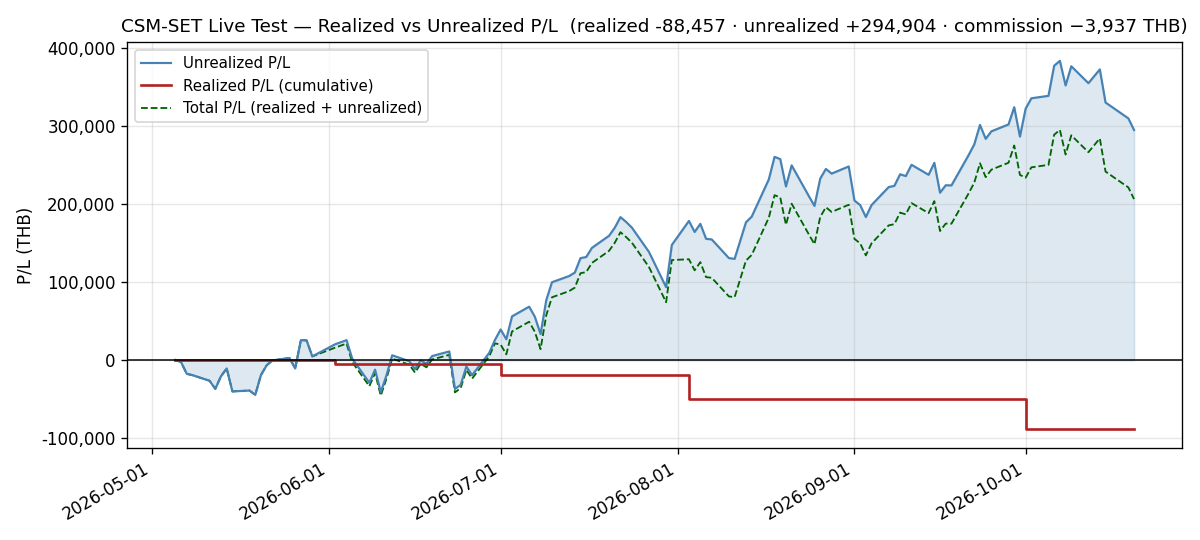
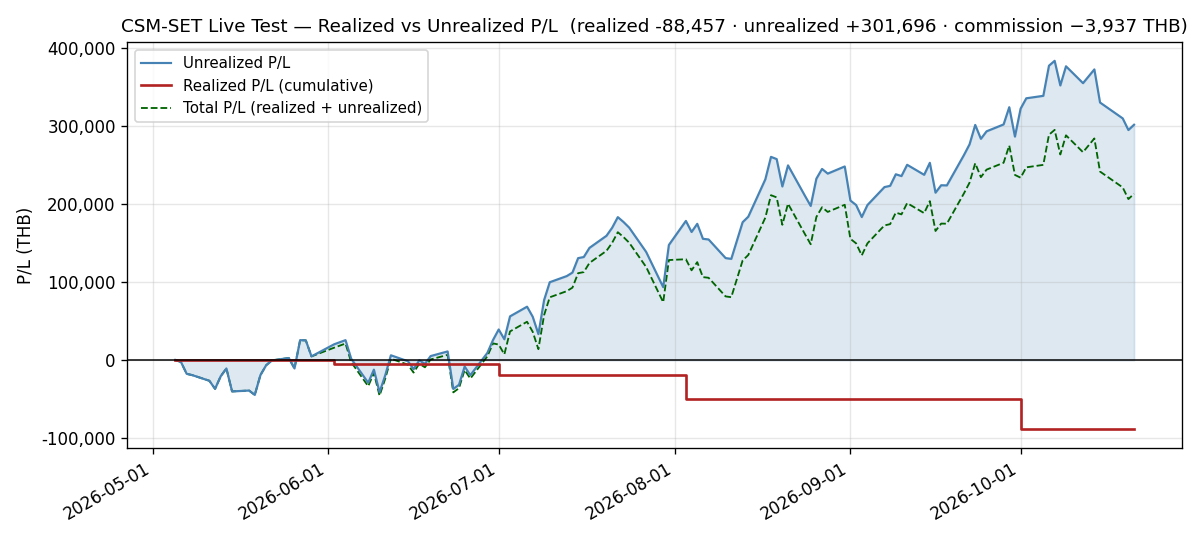
docs(live-test): add daily log for 2026-10-21 — NAV +0.51%, the first gain since 2026-10-14; INSET at its lowest since 2026-07-08
NAV 1,331,628.89 THB (+6,792.00, +0.5127%), Total Return on NAV +18.90%,
breadth 6 up / 3 down / 1 flat, ending a three-session losing run. INSET
−2.31% closed at 4.22, its lowest since 2026-07-08. Both accepted
violations widened (TK-0279): ETRON to 16,229.89 THB over the cap, its
widest since 2026-10-14, and CNT to 11,617.44 THB under the floor. The
SET's cushion over SMA200, 3.4550%, is still the narrowest since
2026-01-15. pnl.csv +1 row (115), the P/L chart regenerated (only its
hash moved), graphs README History, header and check rows updated.

Claude-Session: https://claude.ai/code/session_01VKyqnmKmz6Hh9ErHRFMhFr

diff --git a/docs/live-test/daily/2026-10-21.md b/docs/live-test/daily/2026-10-21.md
@@ -1,0 +1,171 @@
+# Daily Log — 2026-10-21 (Wednesday)
+
+**As of:** 2026-10-21, Asia/Bangkok
+**Phase:** C — Extended Observation
+**Day:** 116 / 47 trading days remaining in 2026
+**Status:** 🔴 **PRE-REGISTRATION HISTORY — SEEN, NOT SCORED.** The operator's 2026-09-11 forward-only decision stands and **no scoring criteria have been pre-registered since**, so every figure below carries that label. 🟢 **NAV closes at 1,331,628.89 THB, up +6,792.00 (+0.5127%)** with no trades — **the first gain since 2026-10-14, ending a three-session losing run** — and stands **81,855.00 (−5.7910%) below the 2026-10-07 high**. Total Return on NAV is **+18.90%**. Breadth is **6 up, 3 down, 1 flat** against a SET that rose **+0.0740%** after trading as low as 1,532.71. 🔴 **INSET fell −2.31% to 4.22, its lowest close since 2026-07-08.** 🔴 **Both accepted violations widened** — ETRON to 16,229.89 THB over the cap, its widest since 2026-10-14, as SMT, HANA and KCE rose, and CNT to 11,617.44 THB under the floor, its widest since 2026-10-19. ⚠ **The index's cushion over SMA200, 3.4550%, is the narrowest since 2026-01-15.**
+
+---
+
+## Execution Summary
+
+**No trades today.** The October rotation was executed at the **2026-10-01 ATO** (SELL MGC, BUY CNT; `configs/live_portfolio.yaml` at `715eeb3`), so the file is unchanged since then and remains valid. Realized P/L for the session is **0.00 THB** and no commission was paid. **Neither end of the band creates a trade, and neither does the sector cap**: both are applied when the book is constructed, and there is no high-water-mark rule. The next rebalance evaluation is **2026-10-30**, six sessions away.
+
+---
+
+## Portfolio Snapshot
+
+> 🔴 **Every figure in this section is PRE-REGISTRATION HISTORY — NOT SCORED.** It is produced from the **reconstructed series** (`csm.adapters.hooks._reconstruct_live_equity`, which reprices `configs/live_portfolio.yaml` against `data/processed/prices_latest.parquet`) and reconciled against **`db_gateway.daily_performance`**. Where a number below is quoted from a stored series, the series is named.
+
+`Avg Cost` is the commission-inclusive per-share basis carried from `configs/live_portfolio.yaml` (4-decimal precision); `Cost Basis = shares × Avg Cost`, and `U.PL % = MV / Cost Basis − 1`. Per-symbol values reproduce the broker statement exactly.
+
+| # | Symbol | Shares | Avg Cost | Last Price | Market Value (THB) | Cost Basis (THB) | U.PL % |
+|---|--------|-------:|---------:|-----------:|--------------------:|-----------------:|-------:|
+| 1 | KCE | 2,600 | 39.0655 | 71.50 | 185,900.00 | 101,570.30 | +83.03% |
+| 2 | GUNKUL | 30,800 | 2.9246 | 4.98 | 153,384.00 | 90,077.68 | +70.28% |
+| 3 | INSET | 42,000 | 3.0848 | 4.22 | 177,240.00 | 129,561.60 | +36.80% |
+| 4 | HANA | 3,000 | 35.8070 | 49.50 | 148,500.00 | 107,421.00 | +38.24% |
+| 5 | IRPC | 56,600 | 2.3037 | 2.78 | 157,348.00 | 130,389.42 | +20.68% |
+| 6 | EASTW | 24,000 | 4.2672 | 4.94 | 118,560.00 | 102,412.80 | +15.77% |
+| 7 | EPG | 17,300 | 5.9099 | 6.55 | 113,315.00 | 102,241.27 | +10.83% |
+| 8 | SMT | 20,400 | 5.8097 | 7.25 | 147,900.00 | 118,517.88 | +24.79% |
+| 9 | FORTH | 5,300 | 16.1270 | 13.80 | 73,140.00 | 85,473.10 | −14.43% |
+| 10 | CNT | 18,200 | 3.3456 | 3.02 | 54,964.00 | 60,889.92 | −9.73% |
+
+### Portfolio summary
+
+| Metric | Value |
+|--------|-------|
+| Total Cost Basis | 1,028,554.97 THB |
+| Total Market Value | 1,330,251.00 THB |
+| Unrealized P/L | +301,696.03 THB (+29.33%) |
+| Realized P/L (today) | **0.00 THB** |
+| Realized P/L (cumulative, since inception) | **−88,456.67 THB** |
+| Commission paid (cumulative) | **−3,936.97 THB** |
+
+### Account summary
+
+| Metric | Value |
+|--------|-------|
+| Remaining Cash | 1,377.89 THB |
+| Total NAV | 1,331,628.89 THB |
+| Total Return on NAV | +18.90% |
+
+> **Cost-basis note:** Total Cost Basis is unchanged at **1,028,554.97 THB** since the 2026-10-01 rotation, and the reconciliation delta against Σ per-symbol (`shares × avg_cost`, 4-dp) is **0.00 THB**.
+>
+> ⚠ **Above/below cost: 8 up / 2 down, unchanged**, with only **FORTH** and **CNT** below. 🔴 **INSET's +36.80%** is its lowest since 2026-08-03.
+>
+> **Dispersion narrowed to 97.46pp** (KCE +83.03% to FORTH −14.43%), from 98.04pp — **the narrowest since the 2026-10-01 rotation again**: the leader KCE gained **1.28pp** of cost and the laggard FORTH gained **1.86pp**.
+>
+> **Total P/L check:** realized + unrealized = −88,456.67 + 301,696.03 = **+213,239.36 THB**, up from +206,447.36 by exactly the +6,792.00 session move.
+
+---
+
+## Day-over-Day Change (vs Tuesday October 20)
+
+| Symbol | Oct 20 Close | Oct 21 Close | Change | Change % | MV Contribution (THB) |
+|--------|-------------:|-------------:|-------:|---------:|----------------------:|
+| SMT | 7.05 | 7.25 | +0.20 | +2.84% | +4,080.00 |
+| HANA | 48.50 | 49.50 | +1.00 | +2.06% | +3,000.00 |
+| EPG | 6.45 | 6.55 | +0.10 | +1.55% | +1,730.00 |
+| FORTH | 13.50 | 13.80 | +0.30 | +2.22% | +1,590.00 |
+| KCE | 71.00 | 71.50 | +0.50 | +0.70% | +1,300.00 |
+| GUNKUL | 4.96 | 4.98 | +0.02 | +0.40% | +616.00 |
+| IRPC | 2.78 | 2.78 | 0.00 | 0.00% | 0.00 |
+| CNT | 3.04 | 3.02 | -0.02 | -0.66% | -364.00 |
+| EASTW | 4.98 | 4.94 | -0.04 | -0.80% | -960.00 |
+| INSET | 4.32 | 4.22 | -0.10 | -2.31% | -4,200.00 |
+| **Total** | | | | **+0.51%** | **+6,792.00** |
+
+**Breadth: 6 up, 3 down, 1 flat.**
+
+> The `Change %` on the Total row is the **market-value** change (+6,792.00 / 1,323,459.00 = +0.5132%), not the NAV change (+6,792.00 / 1,324,836.89 = +0.5127%). The two differ only because cash sits in the NAV denominator and not in the market-value one.
+
+**The risers' 12,316.00 outran the fallers' −5,524.00.** **SMT +2.84% (+4,080.00)**, its best session since 2026-10-14, led, with **HANA +2.06% (+3,000.00)**, **EPG +1.55% (+1,730.00)**, its best since 2026-10-09, and **FORTH +2.22% (+1,590.00)**, its best since 2026-10-07. **KCE +0.70% (+1,300.00)**, its best since 2026-10-14, and **GUNKUL +0.40% (+616.00)** also rose, and **IRPC closed unchanged at 2.78**. Against them, **INSET −2.31% (−4,200.00)** closed at **4.22, its lowest close since 2026-07-08**, and **EASTW −0.80% (−960.00)** and **CNT −0.66% (−364.00)** fell. **The book rose +0.5127% against a SET that rose +0.0740%**, a **+0.4387pp** difference that is a same-session arithmetic result, not a performance comparison (Market Context).
+
+---
+
+## Market Context
+
+| Indicator | Value | Source |
+|-----------|-------|--------|
+| SET Index | 1,556.09 | tvkit (TradingView) |
+| SET Open / High / Low | 1,560.85 / 1,563.04 / 1,532.71 | tvkit |
+| SET 200-day SMA | 1,504.1230 | tvkit (TradingView) |
+| Regime Estimate | BULL | SET +3.46% above SMA200 |
+
+> ⚠ **This is context, NOT a benchmark comparison, and it must not be read as one.** `SET:SET` is a **price index**; the strategy series above is priced on **dividend-adjusted** bars (since `e04a292`, 2026-08-09). The two are not on the same basis, the difference is one-sided in the strategy's favour, and it is not small — measured 2026-09-11 over 2024-03-19 → 2026-09-10, the dividend adjustment is worth **+12.09 percentage points** on this universe, roughly **+4.8%/yr**. The engine's own benchmark loader is also given **no date bounds**, so it compares **600 index points — from 2024-04-30 in today's panel, a start that moves forward one session per session** — against a strategy series that starts at the 2026-10-01 `entry_date`. **No alpha, excess return or outperformance figure is computed anywhere in this log.**
+
+---
+
+## Regime State
+
+- **Detected regime:** BULL — SET (1,556.09) is above SMA200 (1,504.1230) by +3.4550%
+- **SMA200 position:** 1,504.1230 — SET closing at 1,556.09
+- **3-month return:** −4.55% (window-sensitive — see Notes)
+- **No regime-driven action.** The regime filter is evaluated at the month-end rebalance, not intra-month. The next evaluation is **2026-10-30**.
+
+**The SET path from the 2026-09-08 high reads 1,621.89 → 1,617.89 → 1,615.07 → 1,604.52 → 1,591.07 → 1,578.66 → 1,562.73 → 1,583.34 → 1,584.15 → 1,598.03 → 1,604.44 → 1,610.70 → 1,602.58 → 1,607.63 → 1,602.37 → 1,594.30 → 1,559.01 → 1,563.91 → 1,571.62 → 1,576.45 → 1,582.22 → 1,584.63 → 1,570.61 → 1,577.65 → 1,571.74 → 1,575.88 → 1,573.01 → 1,571.72 → 1,554.94 → 1,556.09** — a **+1.15 point, +0.0740%** session, the index's best since 2026-10-14, leaving it **−4.0570%** below the 2026-09-08 high. Today's range was **30.33 points**, against 20.03 the prior session — **the widest since 2026-09-30** — and the index traded as low as **1,532.71**, **28.59 points above today's SMA200**. **Cushion fell 3.4770% → 3.4550%, a −0.0220pp step, the narrowest since 2026-01-15**, as SMA200 rose again to **1,504.1230** (+1.4321). **A BULL→BEAR crossing needs the index 51.97 points lower — a further −3.34% at today's SMA200.**
+
+The 3-month figure fell from −4.37% to −4.55% on a rising session, because its start bar moved from 2026-07-14 (1,626.03) to 2026-07-15 (1,630.21).
+
+---
+
+## Sector Concentration
+
+Groupings are those of the 2026-10-01 rotation (CONS for CNT, SET-official) and are unchanged today; percentages are directly comparable to the prior session for every sleeve.
+
+| Sector | Market Value (THB) | % of NAV | Limit | Status |
+|--------|--------------------:|---------:|-------|--------|
+| Energy & Utilities (ENERG) | 429,292 | 32.2381% | 35% | OK — 36,778.11 THB of headroom |
+| Electronic Components (ETRON) | 482,300 | 36.2188% | 35% | 🔴 **OVER — 16,229.89 THB, accepted known violation** |
+| ICT | 250,380 | 18.8025% | 35% | OK |
+| Construction Materials (CONMAT) | 113,315 | 8.5095% | 35% | OK |
+| Construction Services (CONS) | 54,964 | 4.1276% | 5% floor | 🔴 **UNDER — 11,617.44 THB, accepted known violation** |
+
+🔴 **ETRON's excess widened to its widest since 2026-10-14**, from the 10,227.09 of 2026-10-20. It rose **+0.4468pp to 36.2188%**, its highest weight since 2026-10-14, and the excess grew **10,227.09 → 16,229.89 THB**: the sleeve's market value rose 8,380.00 (SMT +4,080.00, HANA +3,000.00, KCE +1,300.00) while the cap rose 2,377.20 with NAV. [[TK-0279]]
+
+🔴 **CNT's gap widened to 11,617.44 THB, its widest since 2026-10-19**, from 10,913.84, and CONS fell **−0.0486pp to 4.1276%**: CNT's −364.00 plus a floor that rose 339.60 with NAV. **CNT clears at 3.6919, +22.25%.** [[TK-0279]]
+
+**ICT fell −0.2934pp to 18.8025%** on INSET, its lowest since the 2026-10-01 rotation. **ENERG fell −0.1913pp to 32.2381%** on EASTW. **CONMAT rose +0.0870pp to 8.5095%** on EPG, its highest since 2026-08-13. The two large sleeves hold **68.4569% of NAV** together.
+
+**At the ceiling end, KCE remains the largest position** — **13.9603%**, 13,844.33 THB inside the 15% ceiling, over at **77.7644 (+8.76%)** — 8,660.00 THB above INSET, at **13.3100%**, 22,504.33 THB inside, over at **4.8504 (+14.94%)**. 🟢 **At the floor end, FORTH is 5.4925%, 6,558.56 THB above the 5% floor, and goes under at 12.4974 (−9.44%).**
+
+---
+
+## Risk Notes
+
+1. 🔴 **PRE-REGISTRATION HISTORY — SEEN, NOT SCORED (operator decision, 2026-09-11, unchanged).** The track record restarts forward-only, and **scoring criteria are still pending an operator pre-registration**: checked for this log across the strategy repo, the ticket store and the umbrella, and **none has been recorded**. The EMA100 definition remains deferred to that pre-registration (operator decision D1, 2026-09-30), and **the October evaluation it governs is six sessions away**.
+2. 🟢 **NAV rose +6,792.00 (+0.5127%) to 1,331,628.89 — the first gain since 2026-10-14, ending a three-session losing run** (`daily_performance`). It stands **81,855.00 (−5.7910%) below the 2026-10-07 high** and **20,582.00 below the book's 2026-10-01 post-rotation value** (1,352,210.89, `equity_curve`). Total Return on NAV is **+18.90%**.
+3. 🔴 **ACCEPTED KNOWN VIOLATION — ETRON 36.2188%, 16,229.89 THB over the 35% cap** (operator decision D2), **its widest excess since 2026-10-14**. It widened from 10,227.09 without a trade, as all three of its names rose. **No action is recommended and none has been sized.** [[TK-0279]]
+4. 🔴 **ACCEPTED KNOWN VIOLATION — CNT 4.1276%, 11,617.44 THB under the 5% floor and the whole CONS sleeve** (D2), **its widest gap since 2026-10-19**. It widened from 10,913.84 as CNT fell and the floor rose with NAV; CNT clears at **3.6919 (+22.25%)**. [[TK-0279]]
+5. ⚠ **REGIME — the index's cushion over SMA200 is 3.4550%, still the narrowest since 2026-01-15.** The index traded as low as **1,532.71**, 28.59 points above today's SMA200, in its widest range since 2026-09-30, and closed **+0.0740%**. A BULL→BEAR crossing needs **51.97 points (−3.34%)** at today's SMA200. **The regime filter is evaluated only at the month-end rebalance**, so a crossing before 2026-10-30 triggers nothing by itself; what the filter reads that day is what counts. This is context, not a forecast.
+6. 🟢 **`equity_curve` and `daily_performance` agree on the new day**, both **1,331,628.89**. The 2026-10-01 rows still differ by 2,385.81 by design (post-trade against pre-trade).
+7. 🟢 **Today's `daily_return` (+0.5127%) equals this log's headline.** ⚠ `cumulative_return` is anchored to the 2026-10-01 `entry_date` and reads **−1.52%** against a true **+18.90%**, its anchor being the post-rotation value of Risk Note 2. `combined_drawdown` still reads **−6.27%** — the maximum drawdown inside the post-`entry_date` window, set on 2026-10-20, not today's −5.79% distance from the high. Both are the documented truncations, not new defects.
+8. 🟢 **Circuit-breaker buffer 20.10% of NAV.** The 5% breaker trips at **1,064,000 THB**; NAV sits **+267,628.89 above it**. **NAV is 5.79% off peak.** The rolling `circuit_breaker.trigger_threshold` is −10% over 60 days; −5.79% is clear.
+9. 🟢 **The refresh ran clean**: attempt 1 recovered all 201 universe symbols (`requested=201 recovered=201 still_failing=0`) in **131.166s**, and **no symbol failed** (`failures=0`, `held_symbols_failed=0`). The container has not restarted since the 2026-10-14 recreate.
+10. 🟢 **The uncredited dividend total holds at 8,927.00 THB** — KCE 1,560.00, INSET 2,100.00, MGC 2,208.00, FORTH 795.00, IRPC 2,264.00. **0.67% of NAV** and **4.19%** of the +213,239.36 total P/L. There is still no dividend-accrual path anywhere in the book. Carried to the operator's October decision.
+11. **INFRA (carried) — the container publishes `:8100` on all interfaces while private-mode auth is disabled.** `CSM_API_KEY` is absent from the container environment and `CSM_PUBLIC_MODE=false`. **Risk tier: low-moderate and LAN-scoped.** Two low-risk options, operator's call: bind to `127.0.0.1:8100:8000`, or set `CSM_API_KEY`. The 2026-10-14 recreate kept the binding as it was, so the first option still needs its own recreate. **Forty-eighth consecutive log.**
+12. ⚠ **DOC — the `csm-set-daily-log` skill's `daily_return` guidance remains stale.** Its Step 3 still calls the field *"an open defect, not yet fixed in code"*; **it was fixed 2026-09-02**. Today `daily_return` reads **+0.5127%** and agrees with this log's headline exactly. **Thirtieth log to carry this.**
+13. **Open decisions carried to the October evaluation (2026-10-30, six sessions away)**: the EMA100 definition (D1), the drift question at every end of the bands (Risk Notes 3, 4; [[TK-0279]]), fix-notional-not-shares, restate-vs-cutover for price history, and dividend accrual (Risk Note 10).
+
+---
+
+## Notes
+
+- **Scheduled refresh completed via APScheduler with zero failures.** `"Scheduled daily_refresh completed"` at **2026-10-21T11:02:13Z** (18:02 BKK) — the 18:00 cron firing (`cron[... day_of_week='mon-fri', hour='18', minute='0']`, started 11:00:00Z), not a manual `POST /api/v1/scheduler/run/daily_refresh`. Receipt: `symbols_fetched=211, failures=0, duration_seconds=131.166, held_symbols_fetched=10, held_symbols_failed=0, retry_attempts_used=0, index_fetched=true`, corroborated by `results/.tmp/last_refresh.json`. The held phase ended `requested=10 recovered=10 still_failing=0` at 11:00:09Z. The next run is scheduled for **2026-10-22 18:00 +07**.
+- **The container has run since the 2026-10-14 recreate** (`Created` 2026-10-14T12:32:14Z, `StartedAt` 12:32:16Z, no restart since; image `e71f1e0b9d6c`), and the host has not rebooted since 2026-10-06 (`uptime -s` 2026-10-06 10:46:02).
+- **`SET:THCOM` was fetched with 600 bars again.**
+- **The price panel and the prior log agree on all ten names**, so **nothing was restated**.
+- **The panel's row count fell 915 → 914**, every row still carries a 09:55 Bangkok stamp, and the column count is unchanged at **211**, with no duplicated session date.
+- **Row-integrity checks pass.** `db_csm_set.equity_curve` holds **exactly one row per trading day at `00:00:00+00`** — 115 rows, 115 dates, none off midnight — and today's row equals `daily_performance.total_value`.
+- **`configs/live_portfolio.yaml` is unchanged** since the 2026-10-01 rotation (`715eeb3`).
+- **The P/L identity holds and its residual is unchanged.** `realized_cum + unrealized − (NAV − starting_nav)` = −88,456.67 + 301,696.03 − 211,628.89 = **1,610.47 THB**, the value it stepped to at the 2026-10-01 rotation.
+- **Every figure was verified rather than asserted.** Σ position market value equals Total Market Value exactly (1,330,251.00); **Total NAV (1,331,628.89) equals `db_gateway.daily_performance.total_value` to the satang**; Σ (shares × price change) equals the market-value change (+6,792.00) exactly; the sector table sums to Total Market Value exactly; Σ per-symbol cost basis matches Total Cost Basis with a **0.00** delta; the position count is 10. All money arithmetic used `Decimal` with explicit half-up rounding, and so did SMA200 (ETRON **36.2188%**, **16,229.89 THB** over the cap; CNT **4.1276%**, **11,617.44 THB** under a 66,581.44 floor, clearing at **3.6919**; FORTH **5.4925%**, under at **12.4974**; KCE **13.9603%**, over at **77.7644**; INSET **13.3100%**, over at **4.8504**).
+- **Realized P/L and commission ledger — both unchanged, no trades today.** Realized cumulative **−88,456.67 THB** (2026-06-02 −4,351.87 · 2026-07-01 −14,964.06 · 2026-08-03 −29,775.45 · 2026-10-01 −39,365.29). Commission cumulative **−3,936.97 THB**.
+- **Capital events to date, unchanged.** `starting_nav` 1,120,000 after 1,000,000 → 1,100,000 (2026-06-04, +100,000) → 1,120,000 (2026-08-03, +20,000). The 2026-10-01 rotation added no capital.
+- **Every superlative was computed, and each names its window.** The best- and worst-since dates of the named stocks, INSET's U.PL and ETRON's and CONMAT's readings are **since 2026-08-03**, checked against all 54 prior published logs and, for prices, against the panel from 2026-08-03; HANA's move carries no since-date because the published logs and the panel disagree on it. INSET's low close is measured over the whole panel, which starts 2024-04-30. CNT's gap is measured over the breach that began on 2026-10-01, and ICT's weight and the dispersion over the holding period that began then. The first gain, the post-rotation value and the peak come from the full `db_gateway.daily_performance` and `db_csm_set.equity_curve` series. The index figures are measured over bars fetched back to 2024-08-29.
+- **3-month return figure is window-sensitive.** −4.55% is measured over the trailing 66 bars from today's close (start bar 2026-07-15, 1,630.21) and moves materially with the start bar (Regime State). The regime estimate does not use it.
+- **Follow-ups for the next session (Thursday 2026-10-22 18:00 +07).** (a) ETRON against the 35% cap — 16,229.89 THB over; (b) CNT against the 5% floor — it clears at 3.6919; (c) the ceiling — KCE over at 77.7644, INSET over at 4.8504; (d) FORTH against the 5% floor — under at 12.4974; (e) the regime cushion — 51.97 points above a crossing. **The five follow-ups from 2026-10-20 are closed above** — (a) Risk Note 3, (b) Risk Note 4, (c) and (d) Sector Concentration, (e) Risk Note 5.
+- **Calendar.** 2026-10-21 was a trading session; the banked SET holiday calendar (`results/.tmp/set_holidays.json`, read at `captured_at 2026-10-21T11:33:02Z`) lists the next 2026 closures as **2026-10-23** and **2026-12-07**, and the October evaluation, its last trading day, is **2026-10-30**. No trading hours are stated anywhere in this log.
+- Data fetched via tvkit (TradingView, free tier) — all 10 held-symbol prices from the 18:00 BKK scheduled-cron refresh; SET Index context anchored explicitly to the 2026-10-21 bar. ⚠ **The vendor back-adjusts a symbol's entire history on an ex-dividend date**, so any prior-session price quoted here is the vendor's *current* view of that session and not necessarily what was published at the time.

diff --git a/docs/live-test/graphs/README.md b/docs/live-test/graphs/README.md
@@ -3,7 +3,7 @@
 _🟢 **All four PNGs are on ONE date — the September month-end, 2026-09-30.** The three **NAV** charts
 (`equity_curve`, `drawdown`, `monthly_returns`) were regenerated on 2026-09-30 from `nav_actual.csv` /
 `nav_twr.csv` extended to **102 points** (2026-05-04 → 2026-09-30). `pnl_realized_unrealized.png` is newer:
-regenerated on 2026-10-20 from `pnl.csv` (**114 rows**, through 2026-10-20; its newest realized step is the 2026-10-01 rotation's). ⚠ **The September rows of the two NAV CSVs
+regenerated on 2026-10-21 from `pnl.csv` (**115 rows**, through 2026-10-21; its newest realized step is the 2026-10-01 rotation's). ⚠ **The September rows of the two NAV CSVs
 come from `db_gateway.daily_performance`, not `equity_curve`** — IRPC's 2026-09-09 restatement rewrote the
 `equity_curve` rows it would otherwise have supplied; see the 2026-09-30 History entry. `pnl.csv` is built
 from the daily logs' figures (the un-restated `daily_performance` basis), so it does not agree with
@@ -241,14 +241,26 @@ restatement has rewritten `equity_curve` rows inside the month being appended, *
 | `monthly_returns.png` | May **+0.33%** · Jun **+1.44%** · Jul **+9.53%** · Aug **+5.68%** · Sep **+2.90%** (no flow in September, so the TWR and actual-NAV figures agree) |
 | **August bar is the TWR figure** | **+5.68%**, NOT the reported +7.40% and NOT the ex-injection +5.77%. Feeding `nav_actual.csv` instead reproduces the documented failure mode — **Jun +11.62%** and Aug +7.40% |
 | June bar vs the June review | must read **+1.44%**, not +11.62% |
-| `pnl_realized_unrealized.png` *(the 2026-10-20 PNG, through 10-20)* | realized **−88,456.67** · unrealized **+294,904.03** · commission **−3,936.97** THB; the realized line is **flat except at 2026-06-02, 2026-07-01, 2026-08-03 and 2026-10-01** — **four** steps. *(The 2026-10-19 PNG read the same realized and commission with unrealized +309,815.03 at 113 points; the 2026-10-15 PNG read the same realized and commission with unrealized +330,143.03 at 112 points; the 2026-10-14 PNG read the same realized and commission with unrealized +372,572.03 at 111 points; the 2026-10-12 PNG read the same realized and commission with unrealized +354,949.03 at 110 points; the 2026-10-09 PNG +376,567.03 at 109; the 2026-10-08 PNG +352,021.03 at 108; the 2026-10-07 PNG +383,551.03 at 107; the 2026-10-06 PNG +377,303.03 at 106; the 2026-10-05 PNG +338,709.03 at 105; the 2026-10-02 PNG +335,559.03 at 104; the 2026-10-01 PNG +322,278.03 at 103.)* *(The 2026-08-31 PNG read:* realized **−49,091.38** · unrealized **+248,232.35** · commission **−3,735.16** THB; the realized line is **flat except at 2026-06-02, 2026-07-01 and 2026-08-03** — **three** steps.) *(The superseded 2026-08-28 render showed −49,091.38 / +239,078.35 at 79 points; the 2026-08-27 one showed −49,091.38 / +245,069.35 at 78 points; the 2026-08-26 one showed −49,091.38 / +232,605.35 at 77 points; the 2026-08-25 one showed −49,091.38 / +197,671.35 at 76 points; the 2026-08-24 one showed −49,091.38 / +210,441.35 at 75 points; the 2026-08-21 one showed −49,091.38 / +249,619.35 at 74 points; the 2026-08-20 one showed −49,091.38 / +222,599.35 at 73 points; the 2026-08-19 one showed −49,091.38 / +257,693.35 at 72 points; the 2026-08-18 one showed −49,091.38 / +260,527.35 at 71 points; the 2026-08-17 one showed −49,091.38 / +231,713.35 at 70 points; the 2026-08-14 one −49,091.38 / +183,951.35 at 69 points; the 2026-08-12 one −49,091.38 / +129,844.35 at 67 points; the 2026-08-01 one −19,315.93 / +147,665.89 / −3,052.51 and only two steps.)* |
-| `pnl.csv` last row *(the CSV and the P/L PNG are in sync — see the header)* | 2026-10-20: realized **−88,456.67** · unrealized **+294,904.03** · total **+206,447.36** · commission **3,936.97** THB; **114 rows**, matching `equity_curve`'s 114 **in row count only** *(↻ this row read 2026-08-31 / 80 rows until 2026-10-02: the September daily runs extended the CSV without updating it; it is updated with each session's History entry since)* — the values diverge historically after the KCE, INSET, MGC *and* FORTH restatements (see the header caveat) |
+| `pnl_realized_unrealized.png` *(the 2026-10-21 PNG, through 10-21)* | realized **−88,456.67** · unrealized **+301,696.03** · commission **−3,936.97** THB; the realized line is **flat except at 2026-06-02, 2026-07-01, 2026-08-03 and 2026-10-01** — **four** steps. *(The 2026-10-20 PNG read the same realized and commission with unrealized +294,904.03 at 114 points; the 2026-10-19 PNG read the same realized and commission with unrealized +309,815.03 at 113 points; the 2026-10-15 PNG read the same realized and commission with unrealized +330,143.03 at 112 points; the 2026-10-14 PNG read the same realized and commission with unrealized +372,572.03 at 111 points; the 2026-10-12 PNG read the same realized and commission with unrealized +354,949.03 at 110 points; the 2026-10-09 PNG +376,567.03 at 109; the 2026-10-08 PNG +352,021.03 at 108; the 2026-10-07 PNG +383,551.03 at 107; the 2026-10-06 PNG +377,303.03 at 106; the 2026-10-05 PNG +338,709.03 at 105; the 2026-10-02 PNG +335,559.03 at 104; the 2026-10-01 PNG +322,278.03 at 103.)* *(The 2026-08-31 PNG read:* realized **−49,091.38** · unrealized **+248,232.35** · commission **−3,735.16** THB; the realized line is **flat except at 2026-06-02, 2026-07-01 and 2026-08-03** — **three** steps.) *(The superseded 2026-08-28 render showed −49,091.38 / +239,078.35 at 79 points; the 2026-08-27 one showed −49,091.38 / +245,069.35 at 78 points; the 2026-08-26 one showed −49,091.38 / +232,605.35 at 77 points; the 2026-08-25 one showed −49,091.38 / +197,671.35 at 76 points; the 2026-08-24 one showed −49,091.38 / +210,441.35 at 75 points; the 2026-08-21 one showed −49,091.38 / +249,619.35 at 74 points; the 2026-08-20 one showed −49,091.38 / +222,599.35 at 73 points; the 2026-08-19 one showed −49,091.38 / +257,693.35 at 72 points; the 2026-08-18 one showed −49,091.38 / +260,527.35 at 71 points; the 2026-08-17 one showed −49,091.38 / +231,713.35 at 70 points; the 2026-08-14 one −49,091.38 / +183,951.35 at 69 points; the 2026-08-12 one −49,091.38 / +129,844.35 at 67 points; the 2026-08-01 one −19,315.93 / +147,665.89 / −3,052.51 and only two steps.)* |
+| `pnl.csv` last row *(the CSV and the P/L PNG are in sync — see the header)* | 2026-10-21: realized **−88,456.67** · unrealized **+301,696.03** · total **+213,239.36** · commission **3,936.97** THB; **115 rows**, matching `equity_curve`'s 115 **in row count only** *(↻ this row read 2026-08-31 / 80 rows until 2026-10-02: the September daily runs extended the CSV without updating it; it is updated with each session's History entry since)* — the values diverge historically after the KCE, INSET, MGC *and* FORTH restatements (see the header caveat) |
 | The August regeneration *(**done** 2026-08-12, **superseded** by the 2026-08-14, 2026-08-17, 2026-08-18, 2026-08-19, 2026-08-20, 2026-08-21, 2026-08-24, 2026-08-25, 2026-08-26, 2026-08-27, 2026-08-28 and then the 2026-08-31 render)* | ✅ satisfied — the current PNG title reads `realized -49,091 · unrealized +248,232 · commission −3,735 THB`, the series ends 2026-08-31 at 80 points, and the realized line steps **three** times. Verified by eye against the rendered image, not only from the generator's stdout |
 | Only ONE PNG may change on a P/L regeneration | ✅ `gen_pnl_chart.py:118` writes `pnl_realized_unrealized.png` and nothing else. Checksum the four PNGs before and after: the three NAV charts must be **byte-identical** and keep their 2026-08-01 mtimes. Verified 2026-08-14, 2026-08-17, 2026-08-18, 2026-08-19, 2026-08-20, 2026-08-21, 2026-08-24, 2026-08-25, 2026-08-26, 2026-08-27, 2026-08-28 and 2026-08-31 — only the P/L PNG's hash moved on all twelve |
 | P/L reconciliation | `realized_cum + unrealized − (NAV − capital)` = **1,610.47** from 2026-10-01 (**1,610.27** for 2026-08-03 → 2026-09-30, **1,609.61** for 2026-05-29 → 2026-07-31), and constant *within* each era; the 2026-10-01 step is **+0.20**, CNT's 4-dp `avg_cost` rounding. A *drifting* residual means a realisation was missed; the one-time **+0.66** step at the rotation is 4-dp `avg_cost` rounding — see above |
 | `commission_cum` | rises **only on the 7 fill dates** (05-05, 06-02, 06-04, 06-05, 07-01, 08-03, **10-01**); a rise on any other day means a non-trading day was credited with a fill |
 
 ## History
+
+**`pnl.csv` extended through 2026-10-21** on 2026-10-21, appending the **2026-10-21** row — one row,
+the twelfth session of the rotated book. `realized_cum` and `commission_cum` are unchanged (no trade
+since the 2026-10-01 rotation), so the whole movement is the unrealized leg (+294,904.03 →
+**+301,696.03**, a **+6,792.00** session). `total_pl` (**+213,239.36**) stands 81,855.00 below the
++295,094.36 maximum of 2026-10-07. The reconciliation residual holds at **1,610.47**.
+**`pnl_realized_unrealized.png` was regenerated in the same session**, so the two artifacts end together
+at **115 points**; the four PNGs were checksummed (md5) before and after and the three NAV charts are
+byte-identical (`drawdown` 02a92127…, `equity_curve` 7b1c0816…, `monthly_returns` a661bb50…), with
+only the P/L chart's hash moving (a6b94b6f… → **45fbc0c9…**). Every point in the series remains
+**pre-registration history — seen, not scored** under the operator decision of 2026-09-11; no scoring
+criteria have been pre-registered since.
 
 **`pnl.csv` extended through 2026-10-20** on 2026-10-20, appending the **2026-10-20** row — one row,
 the eleventh session of the rotated book. `realized_cum` and `commission_cum` are unchanged (no trade
